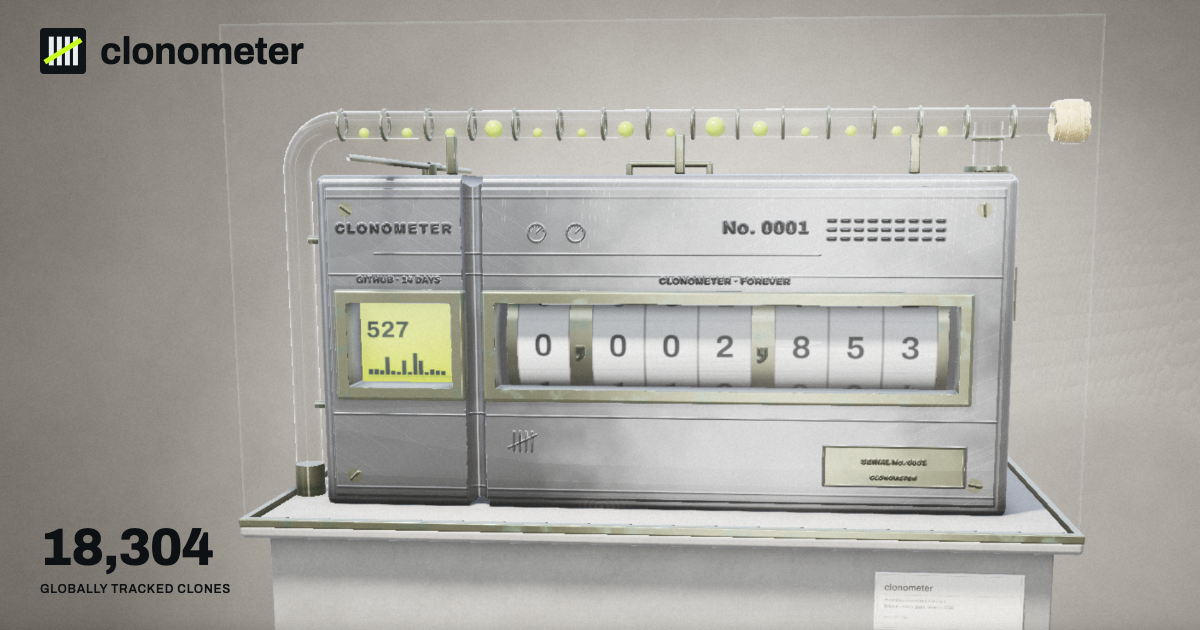
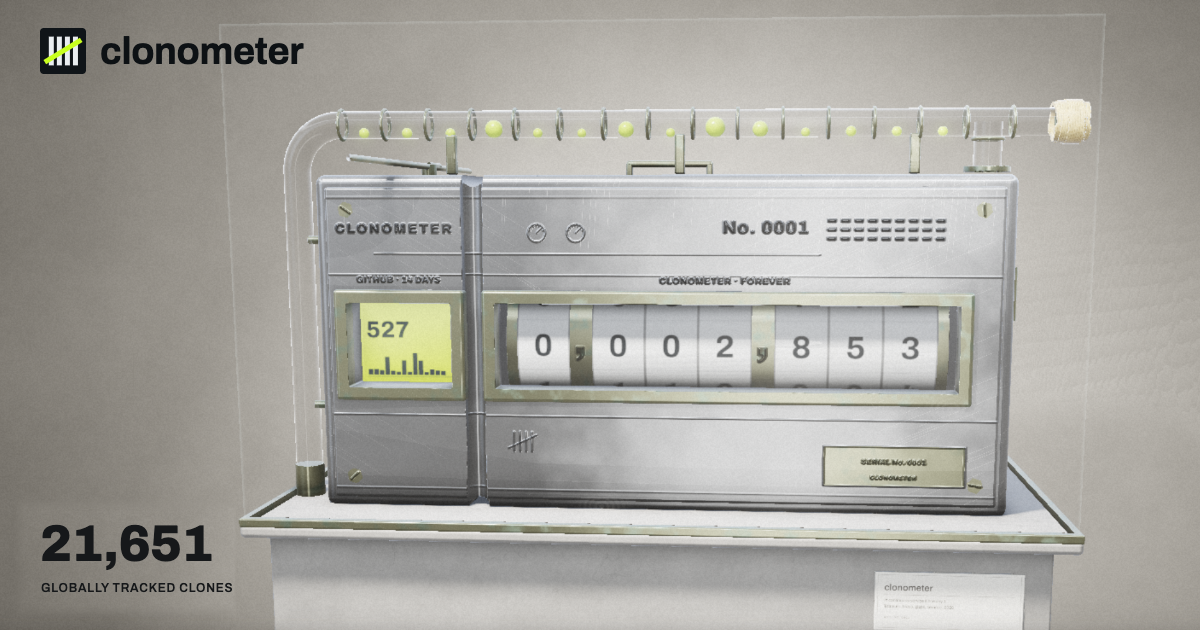
The social preview carries the live global clone count, redrawn on every publish
The site workflow now redraws site/social-preview.png before each Pages
upload: Chrome on the runner screenshots scripts/social-card.html over a
committed background (assets/social-preview-bg.png, the machine with the
number area blank), with the global count from the freshly refreshed
site/metrics.json. It runs every 6 hours and on every push to main, so
each merged pull request also refreshes the image. A failed draw keeps the
committed image and the deploy still goes out. The committed image now
shows 21,651.

Changed region(s): [[0.0308, 0.8143, 0.185, 0.9651]]

diff --git a/scripts/social-card.html b/scripts/social-card.html
@@ -1,0 +1,20 @@
+<!doctype html>
+<meta charset="utf-8">
+<title>clonometer social preview card</title>
+<!-- The site workflow screenshots this page at 1200x630 into site/social-preview.png,
+     with ?n= set to the global clone count from site/metrics.json. Served from the
+     repository root so the background and the font load by relative path. -->
+<style>
+@font-face{font-family:Archivo;src:url(../site/fonts/archivo-latin-wght-normal.woff2) format("woff2");font-weight:100 900}
+*{margin:0;box-sizing:border-box}
+html,body{width:1200px;height:630px;overflow:hidden}
+body{background:url(../assets/social-preview-bg.png) 0 0/1200px 630px no-repeat;font-family:Archivo,sans-serif;position:relative}
+.n{position:absolute;left:40px;top:519px;font-weight:800;font-size:51px;line-height:1;letter-spacing:-.01em;color:#16181a;font-variant-numeric:tabular-nums}
+.l{position:absolute;left:41px;top:581px;font-weight:600;font-size:12px;letter-spacing:.065em;text-transform:uppercase;color:#16181a}
+</style>
+<div class="n" id="n"></div>
+<div class="l">Globally tracked clones</div>
+<script>
+var n = Number(new URLSearchParams(location.search).get('n'));
+document.getElementById('n').textContent = n > 0 ? Math.round(n).toLocaleString('en-US') : '';
+</script>
